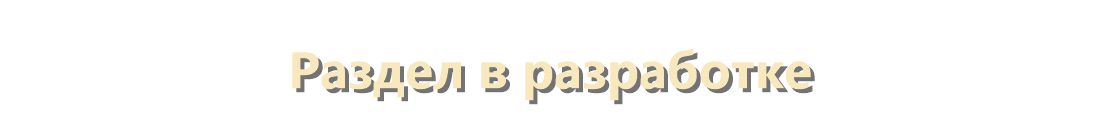
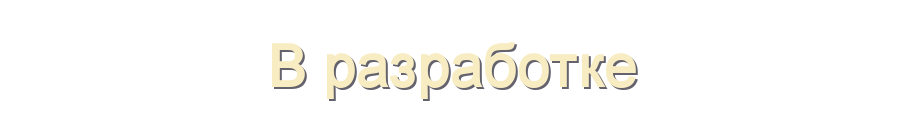
auto generated button text

Changed region(s): [[0.2489, 0.2857, 0.7467, 0.7429]]

diff --git a/tools/MenuButtonGenerator.java b/tools/MenuButtonGenerator.java
@@ -3,10 +3,13 @@ package tools;
 import javax.imageio.ImageIO;
 import java.awt.*;
 import java.awt.font.GlyphVector;
+import java.awt.font.TextAttribute;
 import java.awt.image.BufferedImage;
 import java.io.File;
 import java.io.IOException;
+import java.io.InputStream;
 import java.util.LinkedHashMap;
+import java.util.HashMap;
 import java.util.Map;
 
 /**
@@ -68,16 +71,21 @@ public final class MenuButtonGenerator {
 
             // В оригинальных кнопках фон рисуется в коде, а PNG содержит только текст.
             // Поэтому здесь сохраняем прозрачный фон и рисуем только надпись.
-            Font font = new Font("Arial", Font.BOLD, 76);
+            // Более мягкий и "круглый" системный шрифт.
+            Font baseFont = loadBaseFont(58f);
+            Map<TextAttribute, Object> attrs = new HashMap<>();
+            attrs.put(TextAttribute.KERNING, TextAttribute.KERNING_ON);
+            attrs.put(TextAttribute.TRACKING, -0.01f);
+            Font font = baseFont.deriveFont(attrs);
             GlyphVector glyphVector = font.createGlyphVector(g.getFontRenderContext(), text);
             Rectangle bounds = glyphVector.getPixelBounds(g.getFontRenderContext(), 0, 0);
             int textX = (WIDTH - bounds.width) / 2;
-            int textY = (HEIGHT - bounds.height) / 2 - bounds.y + 2;
+            int textY = (HEIGHT - bounds.height) / 2 - bounds.y + 1;
 
             // Тень.
             g.setFont(font);
-            g.setColor(new Color(10, 8, 24, 220));
-            g.drawString(text, textX + 4, textY + 4);
+            g.setColor(new Color(16, 12, 28, 165));
+            g.drawString(text, textX + 2, textY + 2);
 
             // Основной цвет.
             g.setColor(new Color(248, 236, 194, 255));
@@ -94,5 +102,21 @@ public final class MenuButtonGenerator {
         System.out.println("  java tools.MenuButtonGenerator <output_dir> <file=text> [<file=text> ...]");
         System.out.println("Пример:");
         System.out.println("  java tools.MenuButtonGenerator assets menu_play=Играть menu_settings=Настройки");
+    }
+
+    private static Font loadBaseFont(float size) {
+        // Пытаемся использовать тот же шрифт, что подключен в проекте.
+        File fontFile = new File("assets/fonts/arial.ttf");
+        if (!fontFile.exists()) {
+            fontFile = new File("fonts/arial.ttf");
+        }
+        if (fontFile.exists()) {
+            try (InputStream in = java.nio.file.Files.newInputStream(fontFile.toPath())) {
+                return Font.createFont(Font.TRUETYPE_FONT, in).deriveFont(Font.BOLD, size);
+            } catch (Exception ignored) {
+                // Если не получилось прочитать TTF, откатимся на системный.
+            }
+        }
+        return new Font("Arial", Font.BOLD, Math.round(size));
     }
 }

diff --git a/README.md b/README.md
@@ -51,3 +51,93 @@ java tools.MenuButtonGenerator assets \
 ```
 
 This generates PNG files with a unified style directly in `assets/`.
+
+## Menu button generator
+
+To keep menu buttons visually consistent, use the generator utility:
+
+```bash
+javac tools/MenuButtonGenerator.java
+java tools.MenuButtonGenerator assets \
+  menu_play=Играть \
+  menu_settings=Настройки \
+  menu_menagerie=Зверинец \
+  menu_exit=Выход
+```
+
+This generates PNG files with a unified style directly in `assets/`.
+
+## Menu button generator
+
+To keep menu buttons visually consistent, use the generator utility:
+
+```bash
+javac tools/MenuButtonGenerator.java
+java tools.MenuButtonGenerator assets \
+  menu_play=Играть \
+  menu_settings=Настройки \
+  menu_menagerie=Зверинец \
+  menu_exit=Выход
+```
+
+This generates PNG files with a unified style directly in `assets/`.
+
+## Menu button generator
+
+To keep menu buttons visually consistent, use the generator utility:
+
+```bash
+javac tools/MenuButtonGenerator.java
+java tools.MenuButtonGenerator assets \
+  menu_play=Играть \
+  menu_settings=Настройки \
+  menu_menagerie=Зверинец \
+  menu_exit=Выход
+```
+
+This generates PNG files with a unified style directly in `assets/`.
+
+## Menu button generator
+
+To keep menu buttons visually consistent, use the generator utility:
+
+```bash
+javac tools/MenuButtonGenerator.java
+java tools.MenuButtonGenerator assets \
+  menu_play=Играть \
+  menu_settings=Настройки \
+  menu_menagerie=Зверинец \
+  menu_exit=Выход
+```
+
+This generates PNG files with a unified style directly in `assets/`.
+
+## Menu button generator
+
+To keep menu buttons visually consistent, use the generator utility:
+
+```bash
+javac tools/MenuButtonGenerator.java
+java tools.MenuButtonGenerator assets \
+  menu_play=Играть \
+  menu_settings=Настройки \
+  menu_menagerie=Зверинец \
+  menu_exit=Выход
+```
+
+This generates PNG files with a unified style directly in `assets/`.
+
+## Menu button generator
+
+To keep menu buttons visually consistent, use the generator utility:
+
+```bash
+javac tools/MenuButtonGenerator.java
+java tools.MenuButtonGenerator assets \
+  menu_play=Играть \
+  menu_settings=Настройки \
+  menu_menagerie=Зверинец \
+  menu_exit=Выход
+```
+
+This generates PNG files with a unified style directly in `assets/`.
